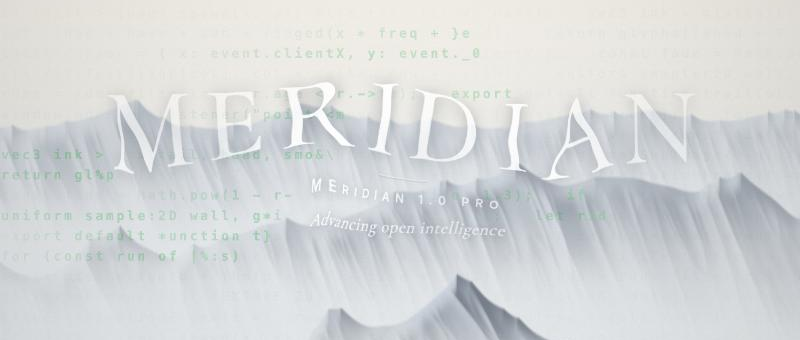
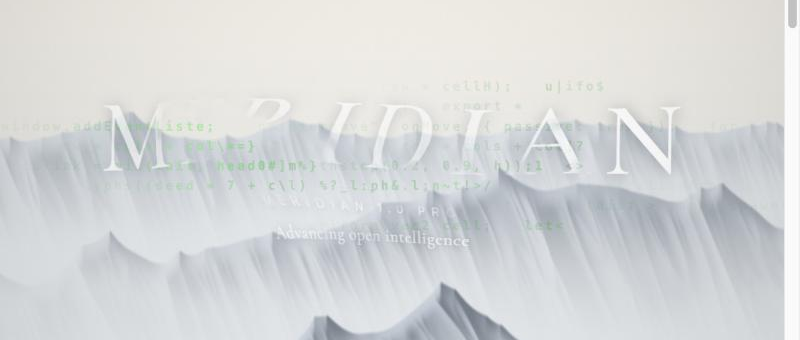
Code trails only where the pointer goes; spring-and-brush push on the title

diff --git a/index.html b/index.html
@@ -201,7 +201,7 @@
     duration: 900,      // ms the transition takes
     cooldown: 140,      // ms of input lock after it finishes
     glitchAmount: 0.6,  // 0..1, how torn the frame gets
-    codeAmbient: 0.06,  // 0..1, how visible the code layer is at rest
+    codeReach: 150,     // px around the pointer where code glows brighter
     titleVeil: 0.55,    // 0..1, how much drifting mist covers the title
   };
   // ?slow=10 plays the transition 10x slower, for inspecting frames.
@@ -323,7 +323,8 @@
   uniform float codeLines, codeWidth, lineH, amount;
   uniform sampler2D trailWall, trailGrid;  // wall: r = code glyphs, g = scramble glyphs
   uniform vec2 trailCell;                  // CSS px per character cell
-  uniform float ambient, titleVeil;
+  uniform float titleVeil, trailReach;
+  uniform vec2 pointer;                    // CSS px, top-down; far off-screen when absent
   uniform sampler2D pushField;
   uniform vec2 pushExtent;                 // CSS px covered by the push field
   const vec3 FOG   = vec3(.90,.915,.925);
@@ -336,48 +337,49 @@
   }
   float luma(vec3 c){ return dot(c, vec3(.299,.587,.114)); }
 
-  // The code layer: a monospace wall that is always faintly there. The grid
-  // holds how much the pointer has stirred each cell (r) and how close it is
-  // to a run's typing head (g); stirred cells read a little stronger and greener.
+  // Code trails: runs of a hidden monospace code wall, lit where the pointer has
+  // been. They keep typing onward and fade over several seconds, so the code
+  // drifts even while the pointer rests. Grid r = brightness, g = closeness to a
+  // run's typing head. Code near the pointer glows a brighter, lighter green.
   vec3 codeWall(vec3 c, vec2 uv){
     vec2 p = vec2(uv.x, 1.-uv.y)*size;    // top-down CSS px
     ivec2 cell = ivec2(p/trailCell);
     ivec2 dim = textureSize(trailGrid, 0);
     if(any(greaterThanEqual(cell, dim)) || any(lessThan(cell, ivec2(0)))) return c;
     vec2 g = texelFetch(trailGrid, cell, 0).rg;
-    // Resting visibility breathes in slow, drifting patches.
-    float rest = ambient*(.4 + .95*vnoise(vec2(cell)*vec2(.05,.13) + vec2(T*.06, -T*.04)));
-    float lit = rest + g.r*.5;
+    if(g.r <= .004) return c;
+    float near = 1.-smoothstep(0., trailReach, length(p - pointer));
     vec2 w = texture(trailWall, vec2(uv.x, 1.-uv.y)).rg;
     // Near a run's head, glyphs flip between code and noise before they settle.
     float flip = step(.45, hash12(vec2(cell) + floor(T*16.)))*step(.35, g.g);
     float glyph = mix(w.r, w.g, flip);
     // Read over dark rock, melt away into bright cloud.
-    float vis = .18 + .82*pow(clamp(1.-luma(c)*.92, 0., 1.), .85);
-    float s = clamp(lit*vis*1.9, 0., 1.);
-    vec3 calm = vec3(.38,.66,.47);         // resting: soft green
-    vec3 stirred = vec3(.20,.74,.38);      // pointer passed: a touch greener
-    vec3 ink = mix(calm, stirred, smoothstep(0.,.45,g.r));
-    ink = mix(ink, vec3(.74,.95,.82), .4*smoothstep(.3,.9,g.g));
+    float vis = .12 + .88*pow(clamp(1.-luma(c)*.92, 0., 1.), .9);
+    float s = clamp(g.r*vis*(1.1 + 1.1*near), 0., 1.);
+    vec3 tail = vec3(.26,.68,.30);
+    vec3 glow = vec3(.50,.96,.52);
+    vec3 ink = mix(tail, glow, max(near*.9, .5*smoothstep(.3,.9,g.g)));
     return mix(c, ink, glyph*s);
   }
 
   vec3 sceneAt(vec2 uv){
     uv = clamp(uv, 0., 1.);
     vec2 p = vec2(uv.x, 1.-uv.y)*size;
-    // Push field: xy = how far the pointer shoved things (CSS px, y down), z = mist cleared.
+    // Push field: xy = how far the springs shoved the title (CSS px, y down),
+    // z = a wet brush stroke along the pointer's path.
     vec4 f = texture(pushField, p/pushExtent);
-    vec2 d = vec2(f.x, -f.y)/size;
-    float m = min(length(f.xy), 26.);
-    vec2 wisp = (vec2(vnoise(p*.045 + T*.6), vnoise(p*.045 + 31.7 - T*.6)) - .5)*m*.6/size;
-    vec4 w = texture(world, clamp(uv - d*.35, 0., 1.));
-    vec4 t = texture(titleTex, clamp(uv - d - wisp, 0., 1.));   // premultiplied
-    // Mist drifting across the title; the pointer pushes it aside, it slowly closes back.
-    vec2 q = vec2(p.x/size.y*3.2 + T*.05, p.y/size.y*5.) - (f.xy/size.y)*4.;
+    vec4 w = texture(world, uv);
+    vec4 t = texture(titleTex, clamp(uv - vec2(f.x, -f.y)/size, 0., 1.));   // premultiplied
+    // The stroke wipes the lettering away with a ragged, fibrous edge; as it
+    // dries the letters return.
+    float fiber = .65*vnoise(p*.045) + .35*vnoise(p*.14 + 9.);
+    t *= 1.-smoothstep(.3, .7, f.z + (fiber-.5)*.6);
+    // Thin mist drifting across the title.
+    vec2 q = vec2(p.x/size.y*3.2 + T*.05, p.y/size.y*5.);
     float mist = smoothstep(.35,.8, .6*vnoise(q) + .4*vnoise(q*2.3 + 5.));
-    t *= 1. - titleVeil*mist*(1.-f.z);
+    t *= 1. - titleVeil*mist;
     vec3 base = codeWall(w.rgb, uv);
-    return mix(base*(1.-t.a) + t.rgb, FOG, w.a*.85*(1.-f.z*.6));
+    return mix(base*(1.-t.a) + t.rgb, FOG, w.a*.85);
   }
 
   // One row of variable-width cells; a patchy subset of them tears sideways.
@@ -621,7 +623,7 @@
   const SCRAMBLE = '01<>/\\{}[]=+*#%&$?!~^:;|_-';
   const trail = {
     cellW: 10, cellH: 18, cols: 1, rows: 1,
-    grid: new Uint8Array(2), runs: [], last: null, dirty: false,
+    grid: new Uint8Array(2), runs: [], last: null, pointer: null, dirty: false,
   };
 
   function buildTrailWall(w, h, dpr) {
@@ -660,12 +662,25 @@
     trail.runs.push({
       row,
       head: px / trail.cellW,
-      len: 10 + Math.random() * 16,     // cells of visible tail
-      speed: 5 + Math.random() * 7,     // cells per second
-      life: 3 + Math.random() * 2.2,    // seconds
+      len: 14 + Math.random() * 18,     // cells of visible tail
+      speed: 3 + Math.random() * 4,     // cells per second
+      life: 4 + Math.random() * 2.5,    // seconds
       age: 0,
     });
-    if (trail.runs.length > 240) trail.runs.shift();
+    if (trail.runs.length > 260) trail.runs.shift();
+  }
+
+  // While the pointer rests on the hero, keep a slow trickle of runs around it.
+  let idleBudget = 0;
+  function trickle(dt) {
+    const p = trail.pointer;
+    if (!p) return;
+    idleBudget += dt * 3;
+    while (idleBudget >= 1) {
+      idleBudget -= 1;
+      const a = Math.random() * Math.PI * 2, r = Math.sqrt(Math.random());
+      spawnRun(p.x + Math.cos(a) * r * 140 - 40, p.y + Math.sin(a) * r * 70);
+    }
   }
 
   function traceTo(px, py) {
@@ -709,71 +724,81 @@
   }
   function clearTrails() { trail.runs = []; trail.last = null; trail.dirty = true; }
 
-  /* ---------- push field ----------
-     A coarse grid of how far the pointer has shoved the mist (px) and how much
-     it has cleared it. Splats follow the pointer, then spread to neighbours and
-     relax back, so the title wobbles and the veil slowly drifts closed again. */
-  const push = { cell: 24, cols: 1, rows: 1, vx: null, vy: null, clr: null, tmp: null, buf: null, last: null, active: false };
+  /* ---------- title push ----------
+     A coarse grid of damped springs, each coupled to its neighbours. The
+     pointer shoves cells along its direction of travel; the shove spreads like
+     a ripple, overshoots and settles, dragging the lettering with it. A
+     separate "wet" channel marks where the stroke wiped through the title and
+     dries out in well under a second. */
+  const PUSH = { wave: 110, spring: 22, damping: 6, maxShift: 64 };
+  const push = { cell: 24, cols: 1, rows: 1, dx: null, dy: null, vx: null, vy: null, wet: null, buf: null, last: null, active: false };
 
   function buildPushField(w, h) {
     push.cell = Math.max(16, Math.min(w, h) / 34);
     push.cols = Math.ceil(w / push.cell) + 1;
     push.rows = Math.ceil(h / push.cell) + 1;
     const n = push.cols * push.rows;
-    push.vx = new Float32Array(n); push.vy = new Float32Array(n);
-    push.clr = new Float32Array(n); push.tmp = new Float32Array(n);
+    for (const k of ['dx', 'dy', 'vx', 'vy', 'wet']) push[k] = new Float32Array(n);
     push.buf = new Float32Array(n * 4);
     push.last = null; push.active = true;
+  }
+
+  function capShift(i) {
+    const m = Math.hypot(push.dx[i], push.dy[i]);
+    if (m <= PUSH.maxShift) return;
+    push.dx[i] *= PUSH.maxShift / m; push.dy[i] *= PUSH.maxShift / m;
+    push.vx[i] *= .5; push.vy[i] *= .5;
   }
 
   function pushAt(x, y) {
     const prev = push.last;
     push.last = { x, y };
     if (!prev) return;
-    const dx = x - prev.x, dy = y - prev.y, speed = Math.hypot(dx, dy);
-    if (speed < .5 || speed > 250) return;
-    const R = Math.max(60, Math.min(W, H) * .1), c = push.cell;
-    const c0 = Math.max(0, Math.floor((x - R) / c)), c1 = Math.min(push.cols - 1, Math.ceil((x + R) / c));
-    const r0 = Math.max(0, Math.floor((y - R) / c)), r1 = Math.min(push.rows - 1, Math.ceil((y + R) / c));
-    const clear = Math.min(1, speed / 25) * .3;
+    const mx = x - prev.x, my = y - prev.y, len = Math.hypot(mx, my);
+    if (len < .5 || len > 300) return;
+    const ux = mx / len, uy = my / len, amt = Math.min(len, 36);
+    const R = Math.max(55, Math.min(110, Math.min(W, H) * .09)), c = push.cell;
+    const cx = (x + prev.x) / 2, cy = (y + prev.y) / 2;
+    const c0 = Math.max(0, Math.floor((cx - R * 1.6) / c)), c1 = Math.min(push.cols - 1, Math.ceil((cx + R * 1.6) / c));
+    const r0 = Math.max(0, Math.floor((cy - R * 1.6) / c)), r1 = Math.min(push.rows - 1, Math.ceil((cy + R * 1.6) / c));
     for (let r = r0; r <= r1; r++) for (let q = c0; q <= c1; q++) {
-      const ox = (q + .5) * c - x, oy = (r + .5) * c - y;
-      const k = Math.exp(-(ox * ox + oy * oy) / (R * R * .45));
+      const ox = (q + .5) * c - cx, oy = (r + .5) * c - cy;
+      const k = Math.exp(-(ox * ox + oy * oy) / (R * R * .5));
       if (k < .01) continue;
       const i = r * push.cols + q;
-      push.vx[i] += dx * k * .3; push.vy[i] += dy * k * .3;
-      push.clr[i] = Math.min(1, push.clr[i] + k * clear);
+      push.dx[i] += ux * amt * k * .5; push.dy[i] += uy * amt * k * .5;
+      push.vx[i] += ux * amt * k * 4;  push.vy[i] += uy * amt * k * 4;
+      push.wet[i] = Math.min(1, Math.max(push.wet[i], k * Math.min(1, len / 8) * 1.2));
+      capShift(i);
     }
     push.active = true;
   }
 
-  // Blend each cell toward its 4-neighbour average: cheap diffusion.
-  function relax(a, keep, mix) {
-    const { cols, rows, tmp } = push;
-    for (let r = 0; r < rows; r++) for (let q = 0; q < cols; q++) {
-      const i = r * cols + q;
-      const avg = (a[q > 0 ? i - 1 : i] + a[q < cols - 1 ? i + 1 : i] + a[r > 0 ? i - cols : i] + a[r < rows - 1 ? i + cols : i]) * .25;
-      tmp[i] = (a[i] + (avg - a[i]) * mix) * keep;
-    }
-    a.set(tmp);
-  }
-
   function advancePush(dt) {
     if (!push.active) return;
-    relax(push.vx, Math.exp(-dt * 2.4), .3);
-    relax(push.vy, Math.exp(-dt * 2.4), .3);
-    relax(push.clr, Math.exp(-dt * .55), .12);
-    let peak = 0;
-    for (let i = 0, n = push.vx.length; i < n; i++) {
-      const vx = Math.max(-26, Math.min(26, push.vx[i])), vy = Math.max(-26, Math.min(26, push.vy[i]));
-      push.vx[i] = vx; push.vy[i] = vy;
-      push.buf[i * 4] = vx; push.buf[i * 4 + 1] = vy; push.buf[i * 4 + 2] = push.clr[i]; push.buf[i * 4 + 3] = 0;
-      peak = Math.max(peak, Math.abs(vx), Math.abs(vy), push.clr[i] * 100);
+    const { cols, rows, dx, dy, vx, vy, wet, buf } = push;
+    const h = Math.min(dt, .1), steps = Math.max(1, Math.ceil(h * 120)), s = h / steps;
+    for (let n = 0; n < steps; n++) {
+      // Velocity from neighbour coupling (ripple), pull home (spring) and friction.
+      for (let r = 0; r < rows; r++) for (let q = 0; q < cols; q++) {
+        const i = r * cols + q;
+        const L = q > 0 ? i - 1 : i, Rt = q < cols - 1 ? i + 1 : i, U = r > 0 ? i - cols : i, D = r < rows - 1 ? i + cols : i;
+        vx[i] += ((dx[L] + dx[Rt] + dx[U] + dx[D] - 4 * dx[i]) * PUSH.wave - PUSH.spring * dx[i] - PUSH.damping * vx[i]) * s;
+        vy[i] += ((dy[L] + dy[Rt] + dy[U] + dy[D] - 4 * dy[i]) * PUSH.wave - PUSH.spring * dy[i] - PUSH.damping * vy[i]) * s;
+      }
+      for (let i = 0; i < dx.length; i++) { dx[i] += vx[i] * s; dy[i] += vy[i] * s; capShift(i); }
     }
+    const dry = Math.exp(-h * 2.4);
+    let peak = 0;
+    for (let i = 0; i < dx.length; i++) {
+      wet[i] *= dry;
+      buf[i * 4] = dx[i]; buf[i * 4 + 1] = dy[i]; buf[i * 4 + 2] = wet[i];
+      peak = Math.max(peak, Math.abs(dx[i]), Math.abs(dy[i]), Math.abs(vx[i]) * .1, Math.abs(vy[i]) * .1, wet[i] * 50);
+    }
+    if (peak < .02) { for (const a of [dx, dy, vx, vy, wet, buf]) a.fill(0); push.active = false; }
     gl.activeTexture(gl.TEXTURE5);
     gl.bindTexture(gl.TEXTURE_2D, pushTex);
-    gl.texImage2D(gl.TEXTURE_2D, 0, gl.RGBA16F, push.cols, push.rows, 0, gl.RGBA, gl.FLOAT, push.buf);
-    if (peak < .02) { push.vx.fill(0); push.vy.fill(0); push.clr.fill(0); push.active = push.buf.some(v => v !== 0); push.buf.fill(0); }
+    gl.texImage2D(gl.TEXTURE_2D, 0, gl.RGBA16F, cols, rows, 0, gl.RGBA, gl.FLOAT, buf);
   }
 
   /* ---------- sizing ---------- */
@@ -833,7 +858,7 @@
   }
   function start(to) {
     target = to; running = true; t0 = performance.now();
-    clearTrails(); push.last = null;
+    clearTrails(); trail.pointer = null; push.last = null;
     apply(); hold(); loop();
   }
 
@@ -862,12 +887,13 @@
     mouse.tx = (e.clientX / innerWidth) * 2 - 1;
     mouse.ty = 1 - (e.clientY / innerHeight) * 2;
     if (progress === 0 && !running && e.pointerType === 'mouse') {
+      trail.pointer = { x: e.clientX, y: e.clientY };
       traceTo(e.clientX, e.clientY);
       pushAt(e.clientX, e.clientY);
     }
   }, { passive: true });
-  const lose = () => { trail.last = null; push.last = null; };
-  document.addEventListener('pointerleave', lose);
+  const lose = () => { trail.last = null; trail.pointer = null; push.last = null; };
+  hero.addEventListener('pointerleave', lose);
   addEventListener('blur', lose);
 
   /* ---------- render loop ---------- */
@@ -876,6 +902,7 @@
     const t = now / 1000 + 40;
     const dt = lastFrame ? Math.min(.1, (now - lastFrame) / 1000) : 0;
     lastFrame = now;
+    if (progress === 0 && !running) trickle(dt);
     advanceTrails(dt);
     advancePush(dt);
     mouse.x += (mouse.tx - mouse.x) * .04;
@@ -906,7 +933,8 @@
     gl.activeTexture(gl.TEXTURE5); gl.bindTexture(gl.TEXTURE_2D, pushTex);
     gl.uniform1i(u.pushField, 5);
     gl.uniform2f(u.pushExtent, push.cols * push.cell, push.rows * push.cell);
-    gl.uniform1f(u.ambient, CONFIG.codeAmbient);
+    gl.uniform1f(u.trailReach, CONFIG.codeReach);
+    gl.uniform2f(u.pointer, trail.pointer ? trail.pointer.x : -1e4, trail.pointer ? trail.pointer.y : -1e4);
     gl.uniform1f(u.titleVeil, CONFIG.titleVeil);
     gl.uniform2f(u.size, W, H);
     gl.uniform1f(u.strength, exit.strength);

diff --git a/README.md b/README.md
@@ -22,9 +22,8 @@
 
 - **单个 HTML 文件**：没有构建步骤，也没有依赖，双击就能打开
 - **程序生成的雾山**：WebGL2 着色器实时绘制，不需要图片素材，鼠标移动有视差
-- **淡淡的代码层**：整个首屏铺着一层很淡的代码，一直都在，按缓慢漂移的斑块明暗起伏。在深色山体上看得清，在亮云里几乎消失
-- **鼠标搅动代码**：鼠标划过的地方，代码会稍微亮一点、颜色偏绿一点，并像打字一样向右延伸；头部字符会先乱码闪一下再定格
-- **雾气被推开**：标题上飘着一层薄雾，鼠标经过时把雾和文字往移动方向推开，字像烟一样散开，之后雾慢慢合拢
+- **鼠标代码轨迹**：鼠标经过的地方，隐藏的代码会一段段淡淡亮起，并像打字一样继续延伸、慢慢淡出，所以鼠标停下来代码也还在动；光标附近的代码会变成更亮的绿色。在深色山体上清晰，在亮云里几乎消失
+- **推开标题**：鼠标划过标题时，笔画沿路径像被湿笔刷抹开一样消失，边缘毛糙；周围的字被推向鼠标移动的方向，然后像果冻一样回弹、晃几下复位
 - **故障转场**：粗、细两层撕裂带、横向拉丝、RGB 色散、重影，部分撕裂带上印着滚动的代码
 - **方块溶解**：画布透明度按块打开，露出下面真实的 DOM 正文（文字可选中，SEO 友好）
 - **可逆**：从正文滚回顶部会反向播放
@@ -54,7 +53,7 @@ open index.html
 | `duration` | 转场时长（毫秒），默认 900 |
 | `cooldown` | 转场结束后锁定输入的时长（毫秒） |
 | `glitchAmount` | 撕裂强度，0–1 |
-| `codeAmbient` | 代码层平时的可见度，0–1 |
+| `codeReach` | 光标周围代码变亮的半径（px） |
 | `titleVeil` | 标题上薄雾的浓度，0–1 |
 
 故障条里出现的代码在 `CODE` 数组里。在网址后面加 `?slow=10`，转场会慢放 10 倍，方便逐帧观察。
@@ -66,8 +65,8 @@ open index.html
 3. **撕裂带**：每一行切成宽度随机的格子，由一层低频噪声决定哪些区域"活跃"，活跃格子做水平位移、拉丝和色散。
 4. **溶解**：输出的 alpha 按方块逐渐变为 0，大致从底部开始、成片打开。因为用的是预乘 alpha，透明处直接露出下面的 HTML。
 5. **正文入场**：通过 CSS 变量 `--reveal` 驱动正文的淡入和上移。
-6. **代码层**：屏幕划成等宽字符格，预先把整面代码墙画进一张纹理（R 通道是代码，G 通道是乱码）。代码平时的可见度由一层缓慢漂移的噪声控制。鼠标路径上随机生成若干段代码，CPU 每帧把它们写进一张很小的 RG8 网格纹理，被搅动的格子更亮、颜色偏绿。
-7. **推雾**：一张粗网格（RGBA16F）记录鼠标推动的位移和清开雾的程度。每次移动在光标周围按高斯分布叠加位移，每帧向邻格扩散并衰减。着色器用它扭曲标题和雾的采样位置，再加一点噪声做出烟丝感，并按清开程度减弱标题上的薄雾。
+6. **代码轨迹**：屏幕划成等宽字符格，预先把整面代码墙画进一张纹理（R 通道是代码，G 通道是乱码）。鼠标路径上、以及鼠标静止时光标周围，会持续生成若干段代码，每段有头部、长度、速度和寿命。CPU 每帧把它们写进一张很小的 RG8 网格纹理，着色器按格子取代码墙，离光标越近颜色越亮。
+7. **推开标题**：一张粗网格（RGBA16F）上的每个格子是一个带阻尼的弹簧，并和相邻格子耦合。鼠标沿移动方向推动格子，推力像涟漪一样扩散，过冲后回弹，标题按这个位移采样。同一张纹理还有一个“湿笔刷”通道，标记鼠标划过的路径，加上纤维噪声就把字抹出毛边；不到一秒干掉后，字就回来了。
 
 ### 许可
 
@@ -87,9 +86,8 @@ Inspired by the hero transition on the Kimi K3.1 Pro tech-report page. This is a
 
 - **Single HTML file**: no build step and no dependencies, just open it
 - **Procedural misty mountains**: drawn live by a WebGL2 shader with no image assets, plus pointer parallax
-- **Faint code layer**: a thin wall of code is always there across the hero, breathing in slowly drifting patches. It reads over dark rock and melts away into bright cloud
-- **Pointer stirs the code**: where the mouse passes, the code gets a little stronger and greener and types itself out to the right. Glyphs at the head scramble briefly before settling
-- **Mist pushed aside**: a veil of mist drifts across the title. The pointer shoves the mist and the letters along its path so they wisp like smoke, then the mist slowly closes back
+- **Cursor code trails**: wherever the mouse passes, hidden code lights up faintly in short runs that keep typing onward and fade over several seconds, so the code is still moving after the pointer stops. Code near the cursor glows a brighter green. It reads over dark rock and melts away into bright cloud
+- **Pushing the title**: as the mouse crosses the title, a wet brush-like stroke wipes the lettering away along its path with ragged edges, while nearby letters get shoved in the direction of travel, then spring back with a jelly-like wobble
 - **Glitch transition**: two layers of tears (fine and coarse), horizontal smears, RGB split and ghosting, with scrolling code printed on some of the tears
 - **Block dissolve**: canvas alpha opens in blocks to reveal the real DOM article underneath (selectable text, SEO-friendly)
 - **Reversible**: scrolling back up from the article plays the transition backwards
@@ -119,7 +117,7 @@ Or serve it locally with `python3 -m http.server` and visit `http://localhost:80
 | `duration` | Transition length in ms (default 900) |
 | `cooldown` | How long input stays locked after the transition, in ms |
 | `glitchAmount` | Tear intensity, 0–1 |
-| `codeAmbient` | How visible the code layer is at rest, 0–1 |
+| `codeReach` | Radius around the pointer where code glows brighter (px) |
 | `titleVeil` | How much drifting mist covers the title, 0–1 |
 
 The code shown inside the tears lives in the `CODE` array. Append `?slow=10` to the URL to play the transition 10× slower and inspect it frame by frame.
@@ -131,8 +129,8 @@ The code shown inside the tears lives in the `CODE` array. Append `?slow=10` to 
 3. **Tears**: each row is split into cells of random width. A low-frequency noise field decides which areas are active, and active cells get shifted, smeared and colour-split.
 4. **Dissolve**: output alpha falls to zero block by block, in ragged patches that roughly start from the bottom. Premultiplied alpha lets the HTML below show through.
 5. **Article entrance**: a CSS variable, `--reveal`, drives the article's fade and rise.
-6. **Code layer**: the screen is a monospace cell grid, and a full wall of code is pre-rendered into one texture (code in red, scramble glyphs in green). A slowly drifting noise sets how visible it is at rest. Pointer movement spawns short runs, which the CPU writes each frame into a tiny RG8 grid texture; stirred cells get brighter and greener.
-7. **Mist push**: a coarse RGBA16F grid stores how far the pointer has shoved things and how much mist it has cleared. Each move splats a Gaussian of displacement around the cursor, and each frame it diffuses to neighbours and decays. The shader offsets where the title and mist are sampled, adds a little noise for smoky wisps, and thins the title veil where it's been cleared.
+6. **Code trails**: the screen is a monospace cell grid, and a full wall of code is pre-rendered into one texture (code in red, scramble glyphs in green). Runs keep spawning along the pointer's path and, while it rests, around it; each has a head, length, speed and lifetime. Every frame the CPU writes them into a tiny RG8 grid texture, and the shader reads the wall per cell, glowing brighter near the pointer.
+7. **Pushing the title**: each cell of a coarse RGBA16F grid is a damped spring coupled to its neighbours. The pointer shoves cells along its direction of travel, and the shove ripples outward, overshoots and settles. The title is sampled through that displacement. A second "wet brush" channel marks the pointer's path; with fibre noise it wipes the letters away with ragged edges, and they return once it dries out in under a second.
 
 ### License
 
